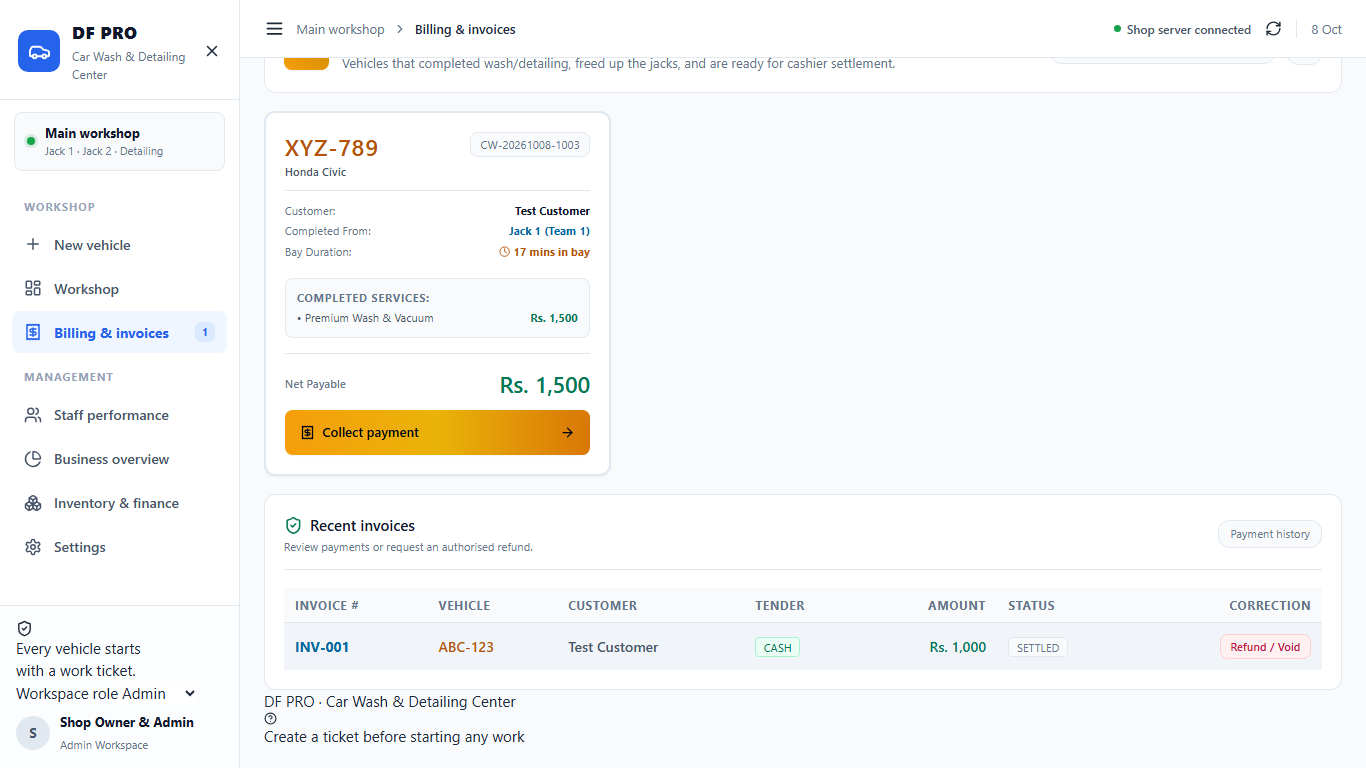
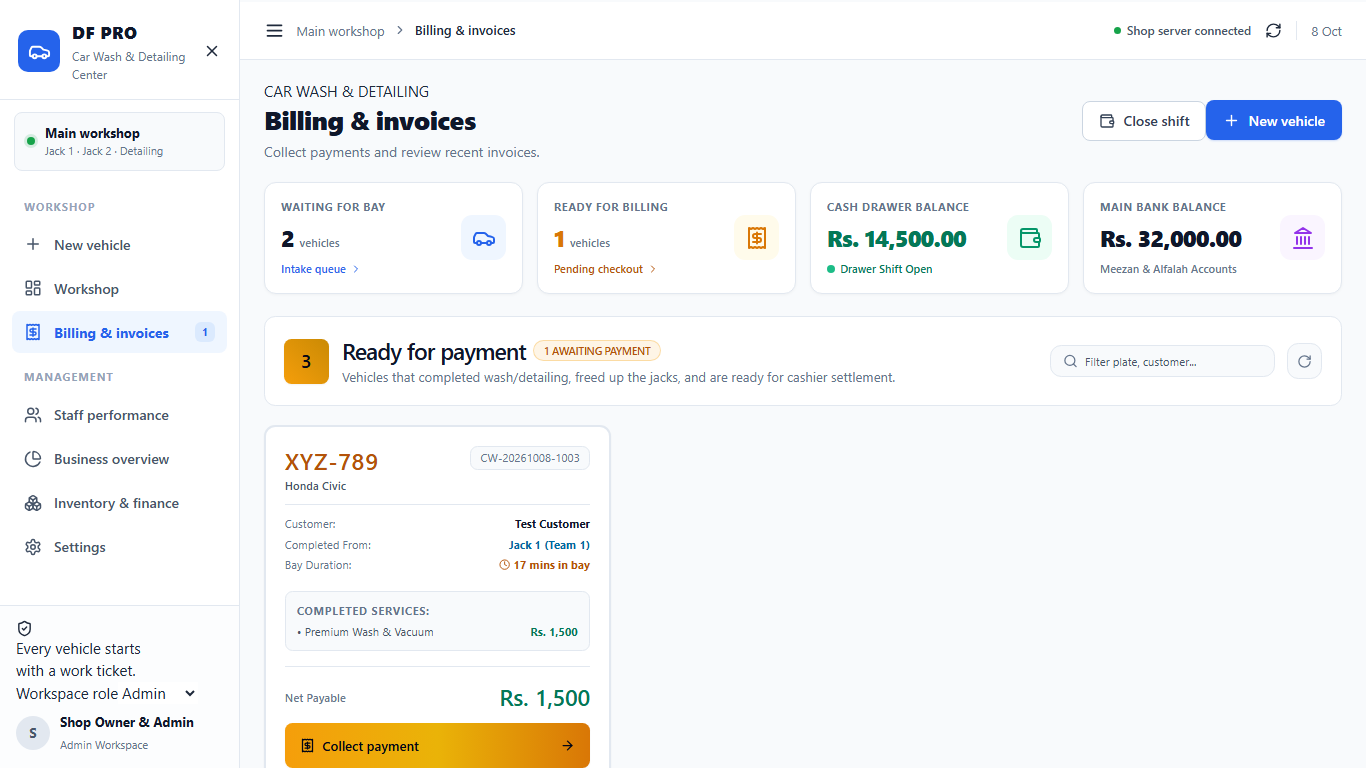
feat(ui): redesign executive KPI metric cards with Vyapar-style ERP aesthetics and fix text squishing

diff --git a/client/src/App.jsx b/client/src/App.jsx
@@ -100,7 +100,109 @@ export default function App() {
         <main id="workspace-content" className="workspace-content" tabIndex={-1}>
           <div className="workspace-heading"><div><span className="eyebrow">CAR WASH & DETAILING</span><h1>{page.title}</h1><p>{page.description}</p></div><div className="heading-actions">{isCashier && <button className="btn btn-secondary" disabled={!registerData || syncState === 'offline'} onClick={() => registerData?.is_open ? setIsCloseShiftModalOpen(true) : setIsRegisterModalOpen(true)}><Wallet size={16} />{registerData?.is_open ? 'Close shift' : 'Open shift'}</button>}{isCashier && activeTab !== 'intake' && <button className="btn btn-primary" onClick={() => navigate('intake')}><Plus size={17} />New vehicle</button>}</div></div>
           {syncState === 'offline' && <div className="connection-notice" role="alert">Unable to reach the shop server. {lastSync ? `Showing the last update from ${lastSync.toLocaleTimeString()}.` : 'Check the server and local network.'} <button onClick={sync}>Try again</button></div>}
-          {['intake', 'bays', 'billing'].includes(activeTab) && <div className={`workspace-summary ${isCashier ? '' : 'summary-worker'}`}><div><span className="stat-icon blue"><Car size={18} /></span><div><span>Waiting for a bay</span><strong>{snapshot ? snapshot.queued : '—'} <small>vehicles</small></strong></div></div><div><span className="stat-icon amber"><Receipt size={18} /></span><div><span>Ready for billing</span><strong>{snapshot ? snapshot.ready : '—'} <small>vehicles</small></strong></div></div>{isCashier && <><div><span className="stat-icon green"><Wallet size={18} /></span><div><span>Cash balance</span><strong>{snapshot ? `Rs. ${money(snapshot.cash)}` : '—'}</strong></div></div><div><span className="stat-icon purple"><Landmark size={18} /></span><div><span>Bank balance</span><strong>{snapshot ? `Rs. ${money(snapshot.bank)}` : '—'}</strong></div></div></>}</div>}
+          {['intake', 'bays', 'billing'].includes(activeTab) && (
+            <div className="workspace-summary grid grid-cols-1 sm:grid-cols-2 lg:grid-cols-4 gap-3 mb-6" id="executive-kpi-bar">
+              {/* Card 1: Waiting for a Bay */}
+              <div
+                onClick={() => navigate('bays')}
+                className="bg-white border border-slate-200/90 hover:border-blue-400 rounded-xl p-4 shadow-sm hover:shadow-md transition-all cursor-pointer group flex items-center justify-between"
+              >
+                <div className="space-y-1">
+                  <p className="text-[11px] font-bold tracking-wider uppercase text-slate-500">
+                    Waiting for Bay
+                  </p>
+                  <div className="flex items-baseline gap-1.5">
+                    <span className="text-2xl font-black text-slate-900 tracking-tight">
+                      {snapshot ? snapshot.queued : '—'}
+                    </span>
+                    <span className="text-xs font-semibold text-slate-500">vehicles</span>
+                  </div>
+                  <p className="text-[11px] text-blue-600 font-semibold flex items-center gap-1 group-hover:underline">
+                    <span>Intake queue</span>
+                    <ChevronRight size={12} className="group-hover:translate-x-0.5 transition-transform" />
+                  </p>
+                </div>
+                <div className="w-12 h-12 rounded-xl bg-blue-50 text-blue-600 flex items-center justify-center flex-shrink-0 group-hover:scale-105 transition-transform shadow-xs">
+                  <Car size={24} />
+                </div>
+              </div>
+
+              {/* Card 2: Ready for Billing */}
+              <div
+                onClick={() => isCashier && navigate('billing')}
+                className={`bg-white border border-slate-200/90 rounded-xl p-4 shadow-sm hover:shadow-md transition-all flex items-center justify-between ${
+                  isCashier ? 'hover:border-amber-400 cursor-pointer group' : ''
+                }`}
+              >
+                <div className="space-y-1">
+                  <p className="text-[11px] font-bold tracking-wider uppercase text-slate-500">
+                    Ready for Billing
+                  </p>
+                  <div className="flex items-baseline gap-1.5">
+                    <span className="text-2xl font-black text-amber-600 tracking-tight">
+                      {snapshot ? snapshot.ready : '—'}
+                    </span>
+                    <span className="text-xs font-semibold text-slate-500">vehicles</span>
+                  </div>
+                  <p className="text-[11px] text-amber-700 font-semibold flex items-center gap-1">
+                    <span>{snapshot?.ready > 0 ? 'Pending checkout' : 'All jobs billed'}</span>
+                    {isCashier && <ChevronRight size={12} className="group-hover:translate-x-0.5 transition-transform" />}
+                  </p>
+                </div>
+                <div className="w-12 h-12 rounded-xl bg-amber-50 text-amber-600 flex items-center justify-center flex-shrink-0 group-hover:scale-105 transition-transform shadow-xs">
+                  <Receipt size={24} />
+                </div>
+              </div>
+
+              {/* Card 3: Cash Drawer Balance */}
+              {isCashier ? (
+                <div
+                  onClick={() => (registerData?.is_open ? setIsCloseShiftModalOpen(true) : setIsRegisterModalOpen(true))}
+                  className="bg-white border border-slate-200/90 hover:border-emerald-400 rounded-xl p-4 shadow-sm hover:shadow-md transition-all cursor-pointer group flex items-center justify-between"
+                >
+                  <div className="space-y-1">
+                    <p className="text-[11px] font-bold tracking-wider uppercase text-slate-500">
+                      Cash Drawer Balance
+                    </p>
+                    <div className="flex items-baseline">
+                      <span className="text-xl sm:text-2xl font-black text-emerald-700 tracking-tight">
+                        {snapshot ? `Rs. ${money(snapshot.cash)}` : '—'}
+                      </span>
+                    </div>
+                    <p className="text-[11px] text-emerald-700 font-semibold flex items-center gap-1.5">
+                      <span className={`w-2 h-2 rounded-full ${registerData?.is_open ? 'bg-emerald-500 animate-pulse' : 'bg-slate-400'}`} />
+                      <span>{registerData?.is_open ? 'Drawer Shift Open' : 'Drawer Closed'}</span>
+                    </p>
+                  </div>
+                  <div className="w-12 h-12 rounded-xl bg-emerald-50 text-emerald-600 flex items-center justify-center flex-shrink-0 group-hover:scale-105 transition-transform shadow-xs">
+                    <Wallet size={24} />
+                  </div>
+                </div>
+              ) : null}
+
+              {/* Card 4: Main Bank Balance */}
+              {isCashier ? (
+                <div className="bg-white border border-slate-200/90 hover:border-purple-300 rounded-xl p-4 shadow-sm hover:shadow-md transition-all flex items-center justify-between">
+                  <div className="space-y-1">
+                    <p className="text-[11px] font-bold tracking-wider uppercase text-slate-500">
+                      Main Bank Balance
+                    </p>
+                    <div className="flex items-baseline">
+                      <span className="text-xl sm:text-2xl font-black text-slate-900 tracking-tight">
+                        {snapshot ? `Rs. ${money(snapshot.bank)}` : '—'}
+                      </span>
+                    </div>
+                    <p className="text-[11px] text-slate-500 font-medium">
+                      Meezan & Alfalah Accounts
+                    </p>
+                  </div>
+                  <div className="w-12 h-12 rounded-xl bg-purple-50 text-purple-600 flex items-center justify-center flex-shrink-0 shadow-xs">
+                    <Landmark size={24} />
+                  </div>
+                </div>
+              ) : null}
+            </div>
+          )}
           <div className="page-content">
             {activeTab === 'intake' && isCashier && <IntakeForm onJobCreated={() => { sync(); navigate('bays'); }} />}
             {activeTab === 'bays' && <PhysicalBayDashboard onGoToBilling={isCashier ? () => navigate('billing') : undefined} />}

diff --git a/client/src/index.css b/client/src/index.css
@@ -83,6 +83,80 @@ input::placeholder, textarea::placeholder { color: #94a3b8; }
 /* Surface Panels */
 .surface { background: #fff; border: 1px solid var(--border); border-radius: 12px; box-shadow: 0 1px 3px rgba(0, 0, 0, 0.04); }
 
+/* Executive KPI Summary Bar (Vyapar / ERP style) */
+.workspace-summary {
+  display: grid;
+  grid-template-columns: repeat(4, minmax(0, 1fr));
+  gap: 14px;
+  margin-bottom: 22px;
+}
+.workspace-summary.summary-worker {
+  grid-template-columns: repeat(2, minmax(0, 1fr));
+}
+.workspace-summary > div {
+  background: #ffffff;
+  border: 1px solid #e2e8f0;
+  border-radius: 12px;
+  padding: 16px;
+  display: flex;
+  align-items: center;
+  justify-content: space-between;
+  box-shadow: 0 1px 3px rgba(0, 0, 0, 0.04);
+  transition: all 0.15s ease;
+  min-width: 0;
+}
+.workspace-summary > div:hover {
+  box-shadow: 0 4px 6px -1px rgba(0, 0, 0, 0.08);
+  border-color: #cbd5e1;
+}
+.workspace-summary > div > div {
+  display: flex;
+  flex-direction: column;
+  gap: 4px;
+  min-width: 0;
+}
+.workspace-summary > div > div > span {
+  font-size: 11px;
+  font-weight: 700;
+  text-transform: uppercase;
+  letter-spacing: 0.6px;
+  color: #64748b;
+}
+.workspace-summary > div > div > strong {
+  font-size: 22px;
+  font-weight: 800;
+  color: #0f172a;
+  line-height: 1.2;
+  letter-spacing: -0.5px;
+  white-space: nowrap;
+}
+.workspace-summary > div > div > strong small {
+  font-size: 12px;
+  font-weight: 600;
+  color: #64748b;
+  margin-left: 4px;
+}
+.stat-icon {
+  width: 44px;
+  height: 44px;
+  border-radius: 10px;
+  display: grid;
+  place-items: center;
+  flex-shrink: 0;
+  order: 2;
+}
+.stat-icon.blue { background: #eff6ff; color: #2563eb; }
+.stat-icon.amber { background: #fffbeb; color: #d97706; }
+.stat-icon.green { background: #ecfdf5; color: #059669; }
+.stat-icon.purple { background: #faf5ff; color: #7c3aed; }
+
+@media (max-width: 1024px) {
+  .workspace-summary { grid-template-columns: repeat(2, minmax(0, 1fr)) !important; }
+}
+@media (max-width: 640px) {
+  .workspace-summary { grid-template-columns: 1fr !important; gap: 10px; }
+}
+
 /* Intake Layout */
 .intake-layout { display: grid; grid-template-columns: minmax(0, 1fr) 340px; gap: 20px; align-items: start; }
 .intake-main { display: flex; flex-direction: column; gap: 20px; min-width: 0; }
